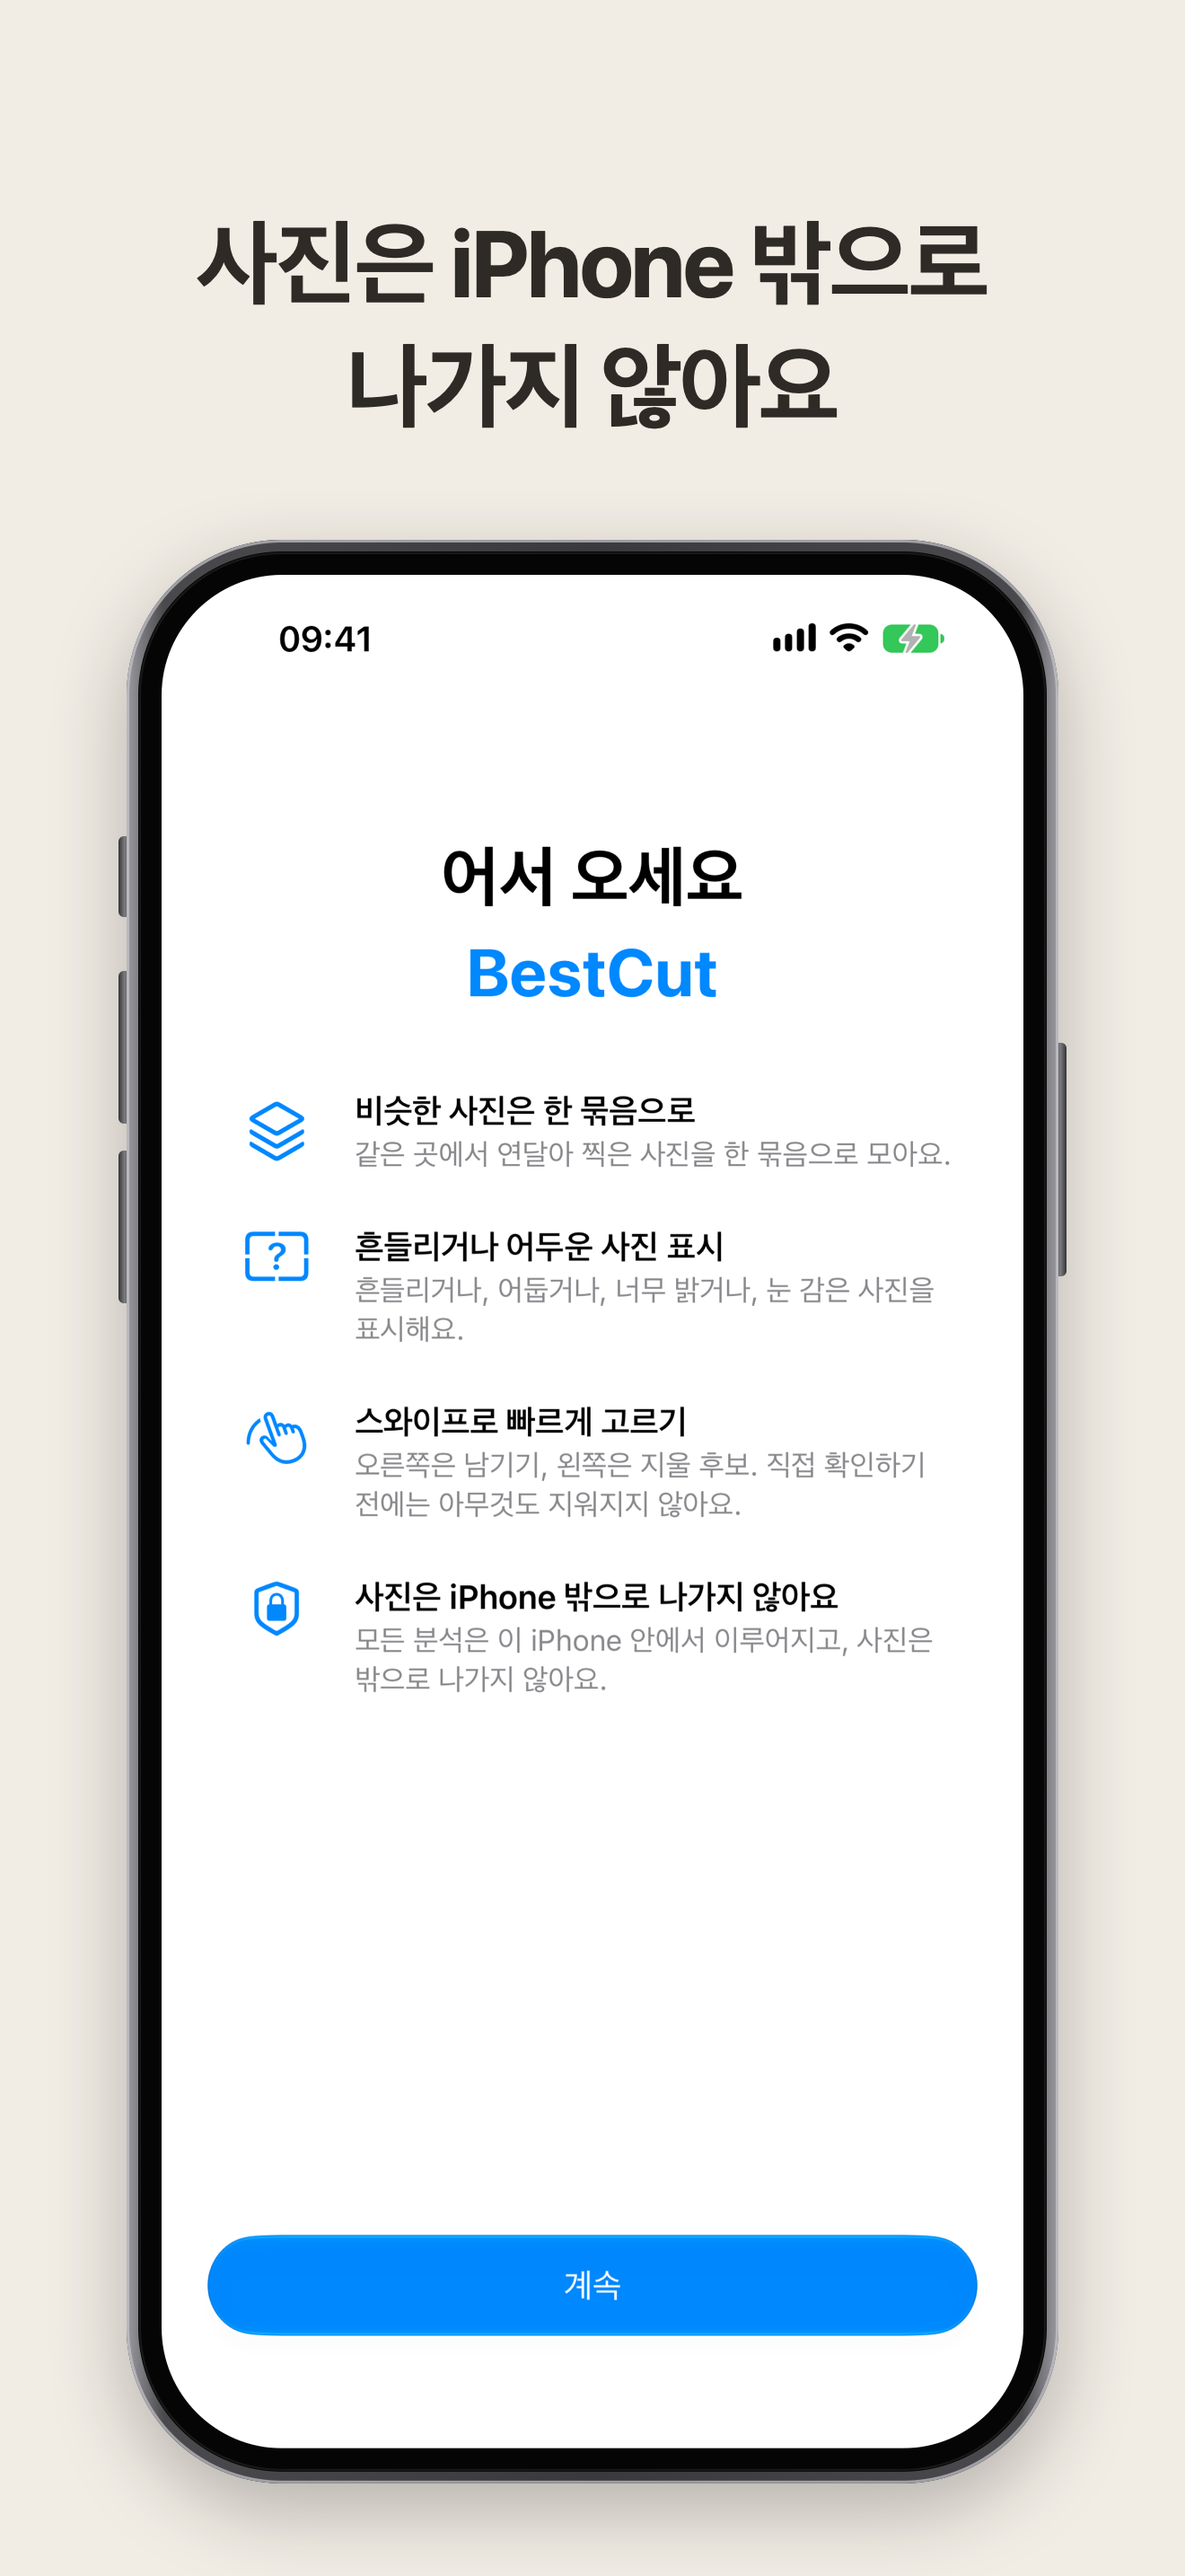
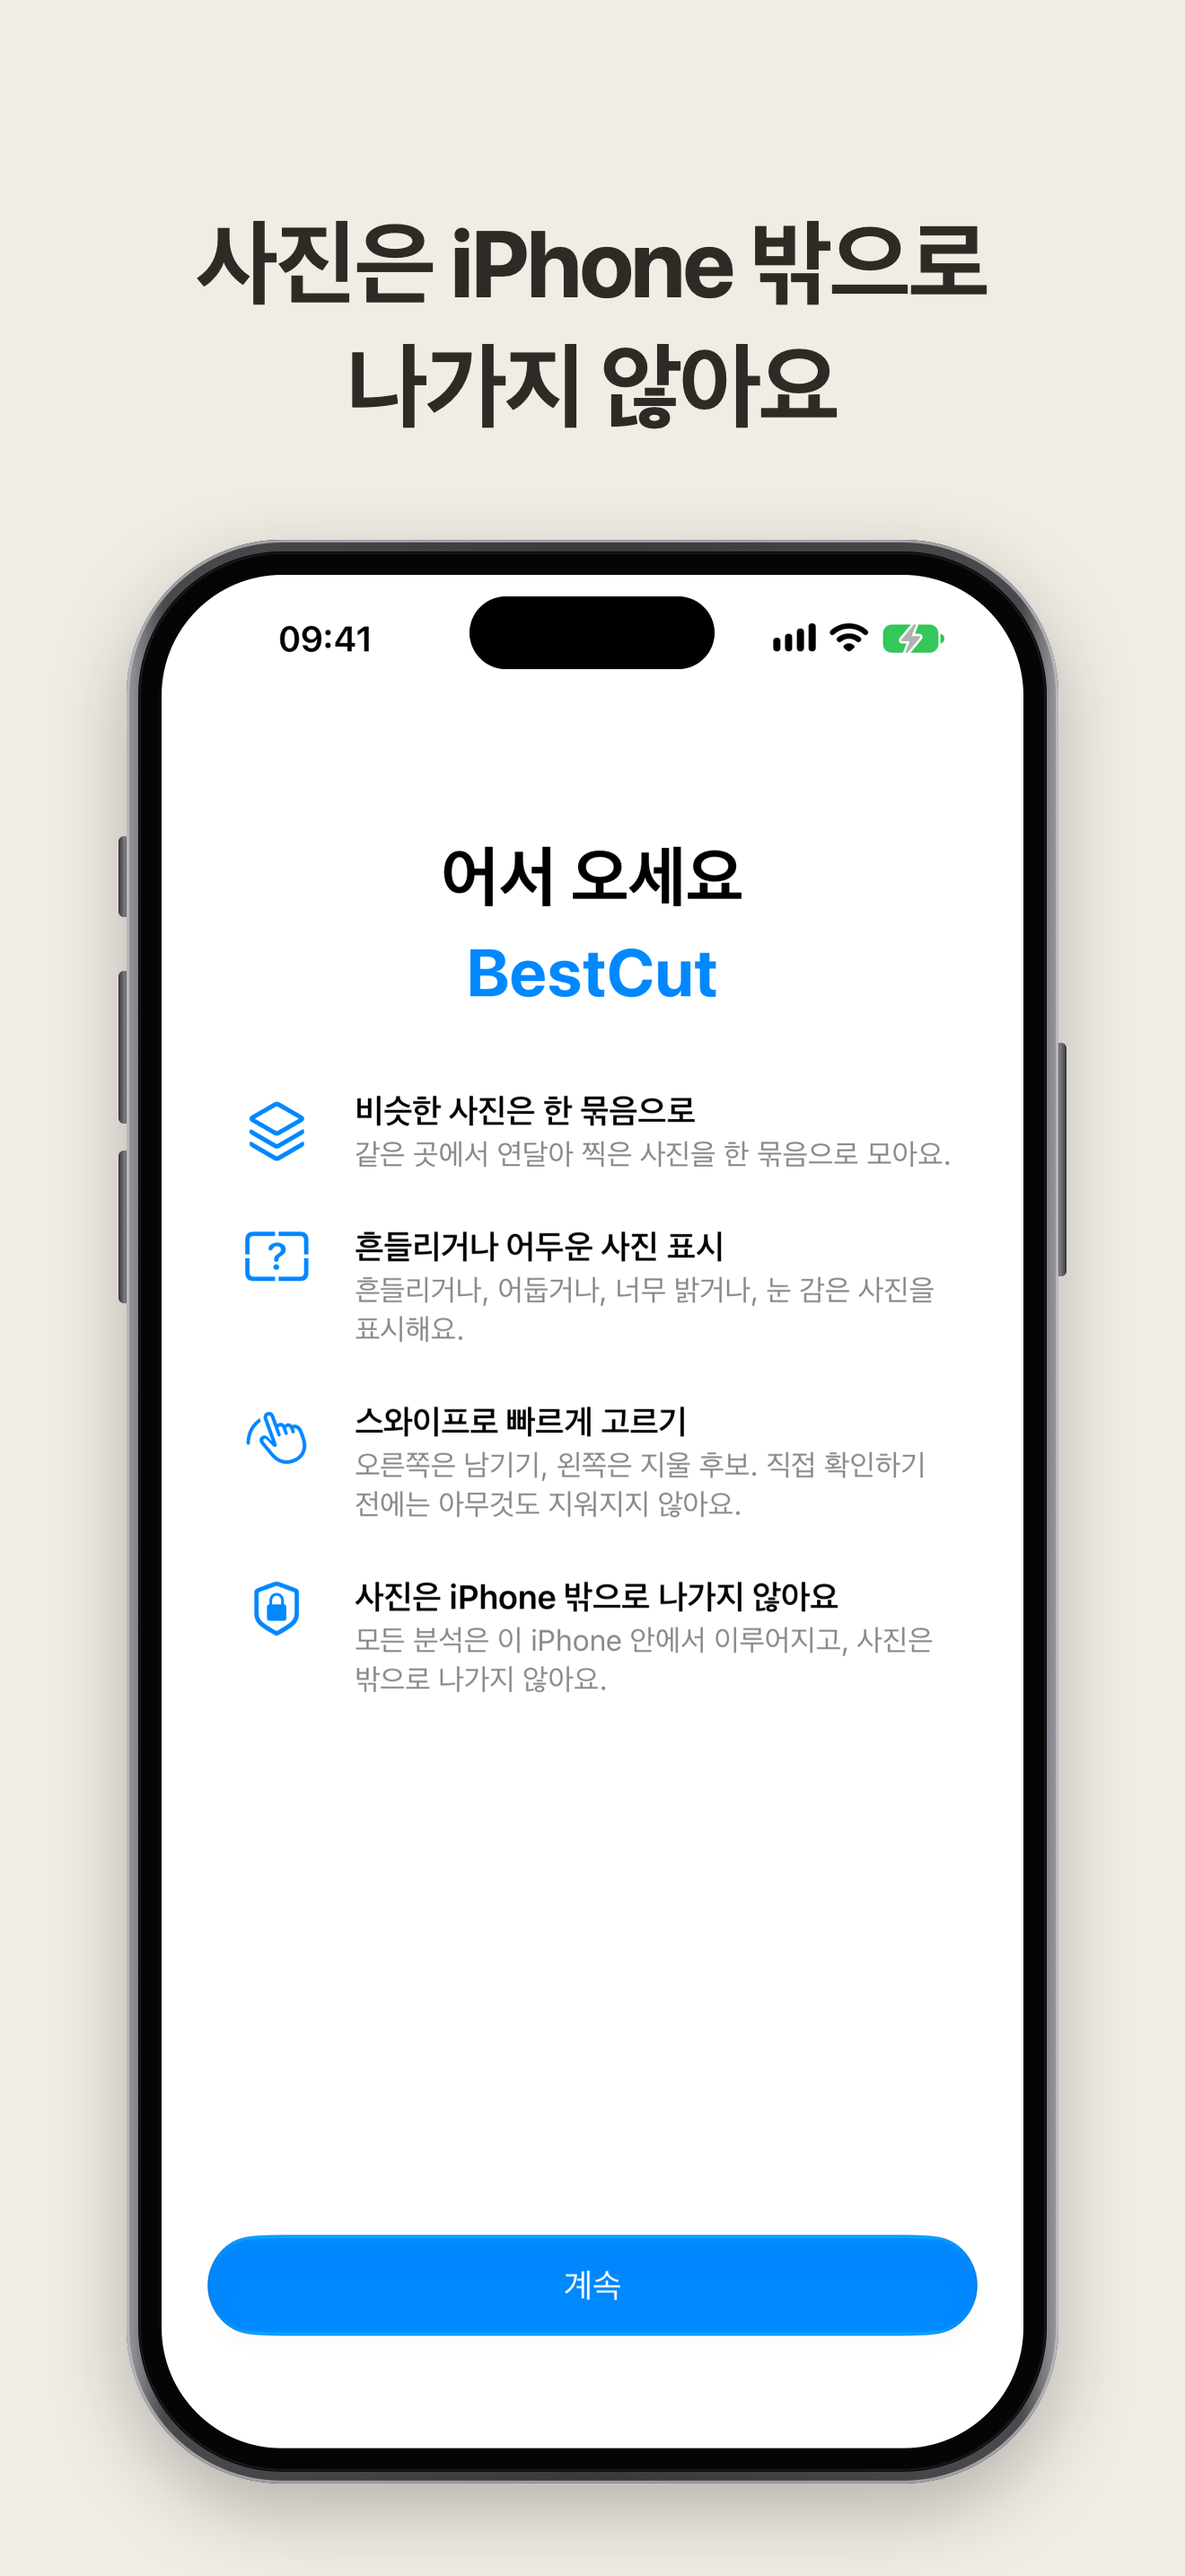
docs(release): draw the Dynamic Island on App Store screenshots
Simulator screenshots don't include the Dynamic Island, so the phone frame
looked unlike a real iPhone. The composer now draws it, and the committed
Korean and English screenshots and the preview sheet are updated to match.

Claude-Session: https://claude.ai/code/session_012kBGn4mQwwsHadXgffSdPU

Changed region(s): [[0.4038, 0.2172, 0.6212, 0.2793]]

diff --git a/scripts/make_store_screens.swift b/scripts/make_store_screens.swift
@@ -142,12 +142,17 @@ for slide in slides {
     ctx.clip()
     ctx.draw(shot, in: screen)
     ctx.restoreGState()
+    // Dynamic Island: simulator screenshots leave it out, so draw it at the iPhone's proportions.
+    let islandW = screenW * 0.284, islandH = screenW * 0.084
+    let island = CGRect(x: screen.midX - islandW / 2, y: screen.maxY - screenW * 0.025 - islandH, width: islandW, height: islandH)
+    ctx.addPath(roundedPath(island, islandH / 2))
+    ctx.setFillColor(NSColor.black.cgColor)
+    ctx.fillPath()
     // Faint glass reflection across the top of the bezel
     ctx.addPath(roundedPath(glass.insetBy(dx: 2, dy: 2), screenRadius + bezel - 2))
     ctx.setStrokeColor(NSColor.white.withAlphaComponent(0.08).cgColor)
     ctx.setLineWidth(2)
     ctx.strokePath()
-    // The simulator screenshot already shows the Dynamic Island.
     NSGraphicsContext.restoreGraphicsState()
     let png = rep.representation(using: .png, properties: [:])!
     try! png.write(to: outDir.appendingPathComponent(lang).appendingPathComponent(slide.shot + ".png"))
